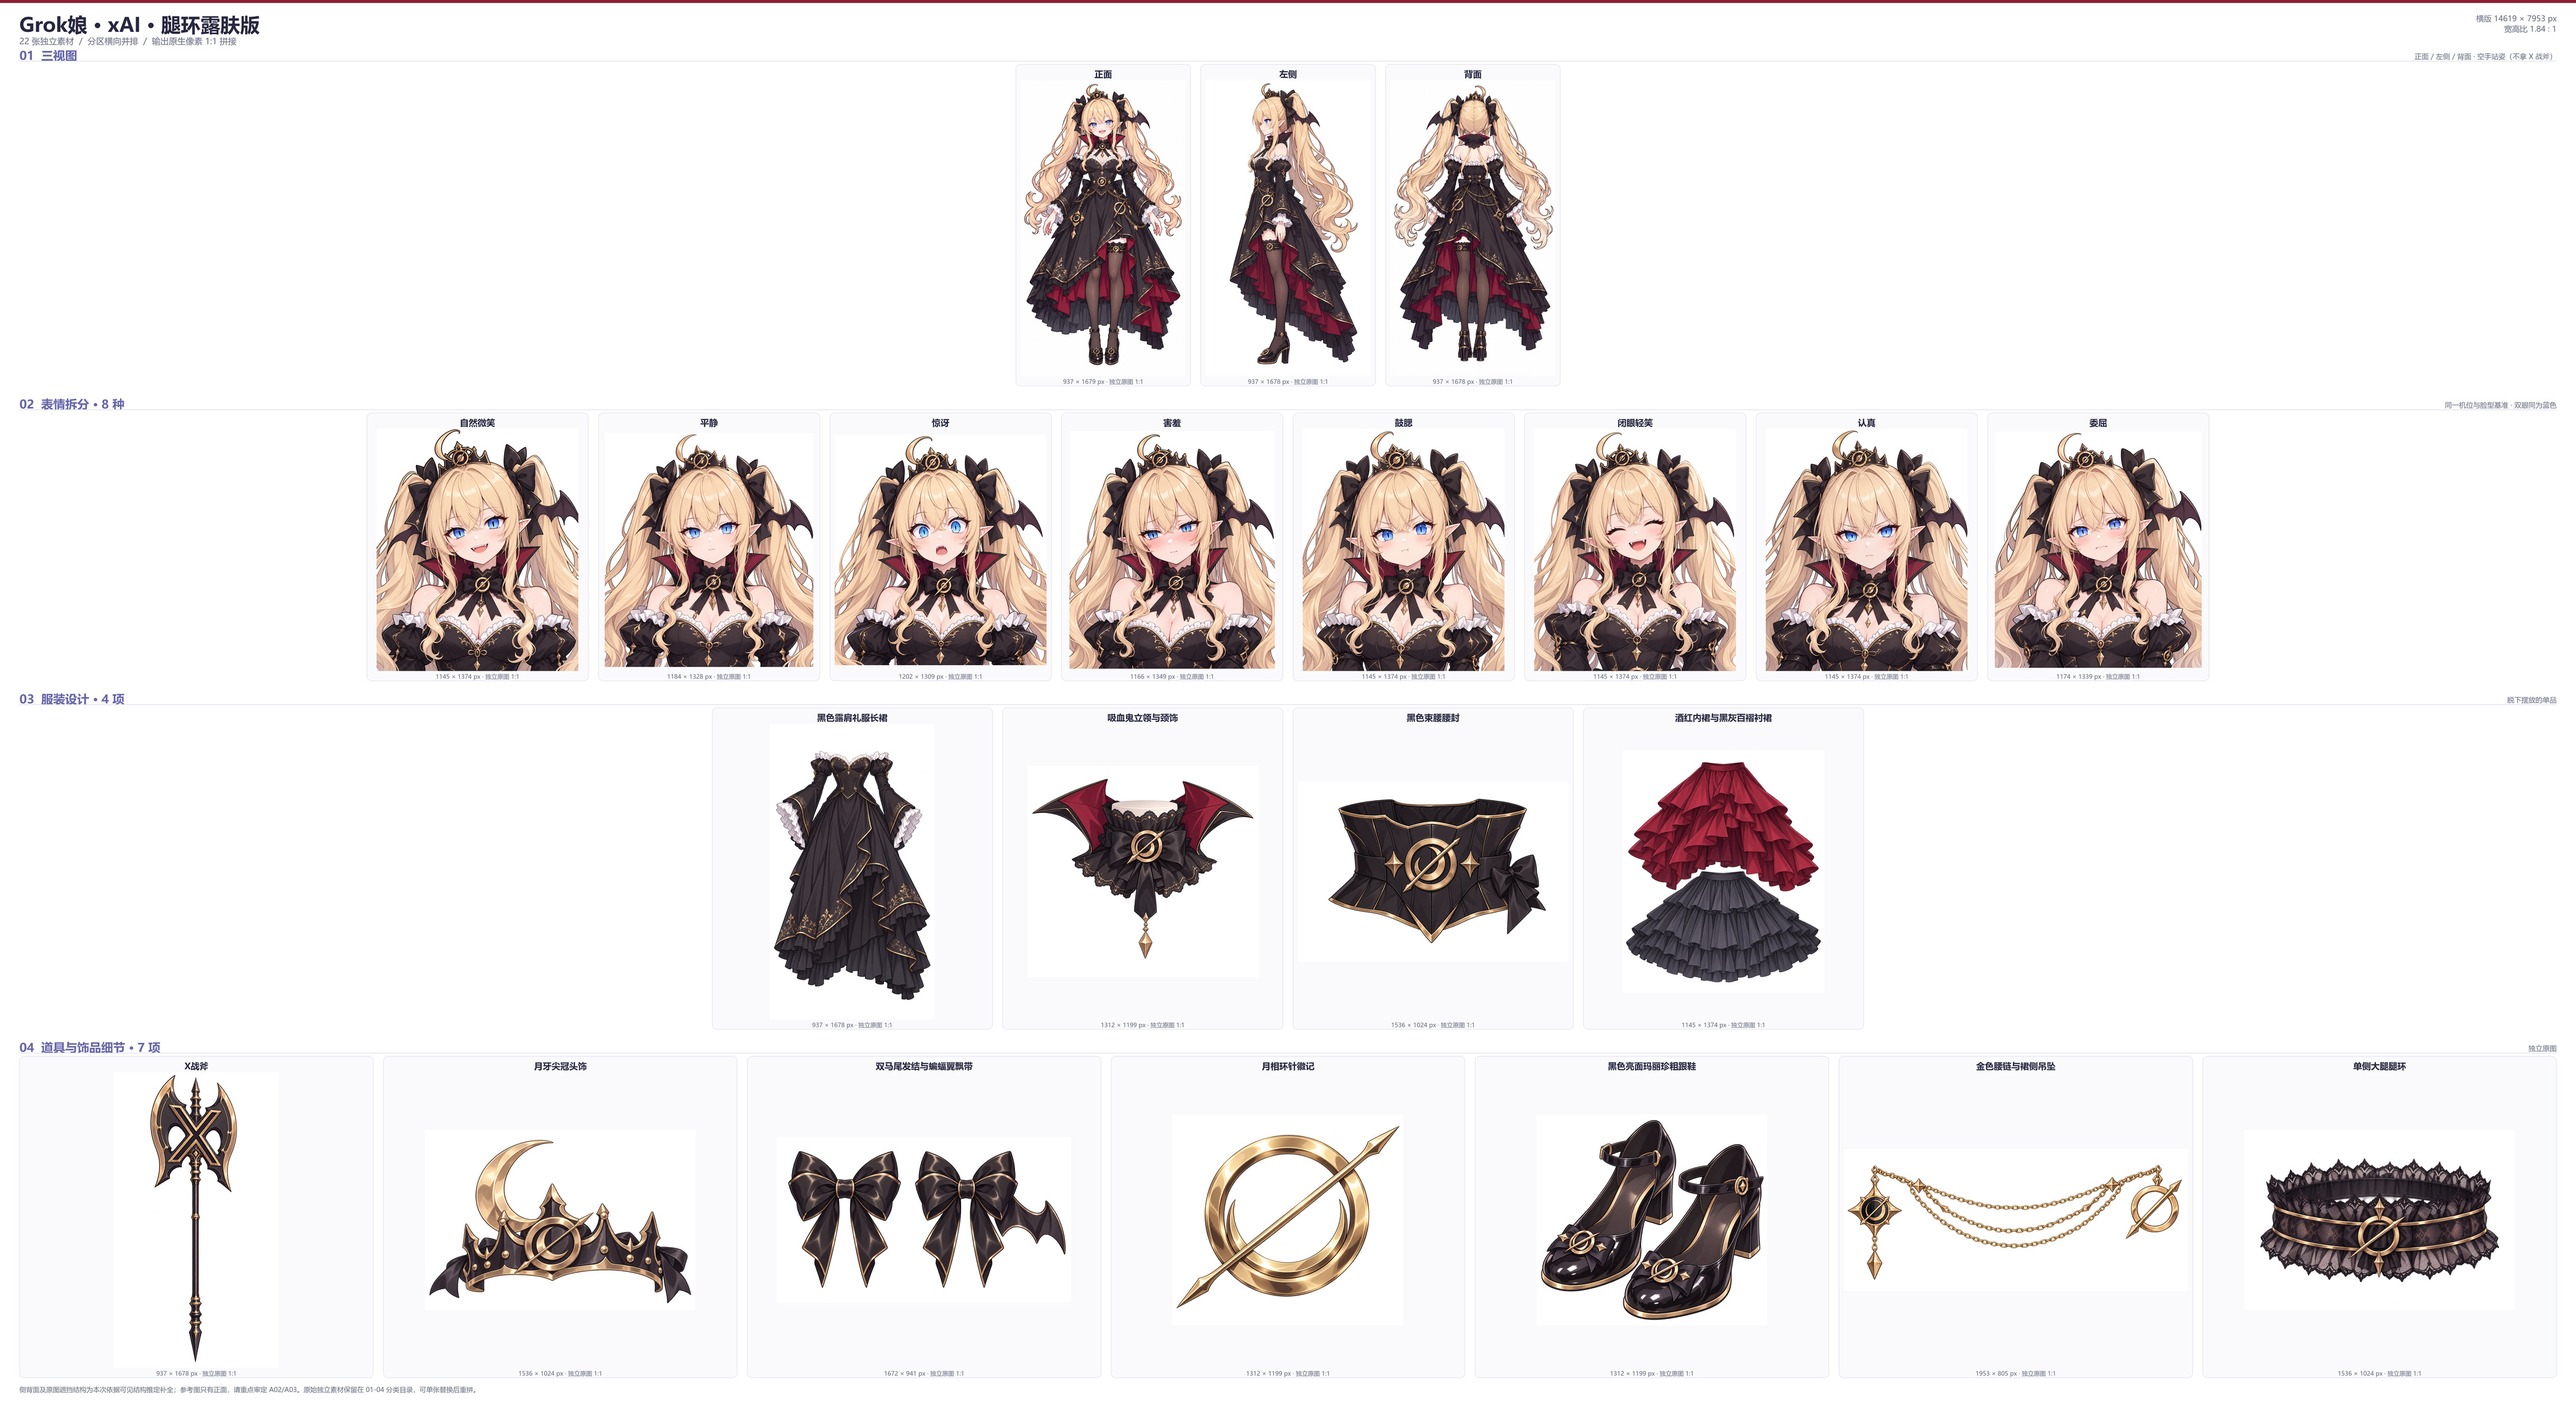
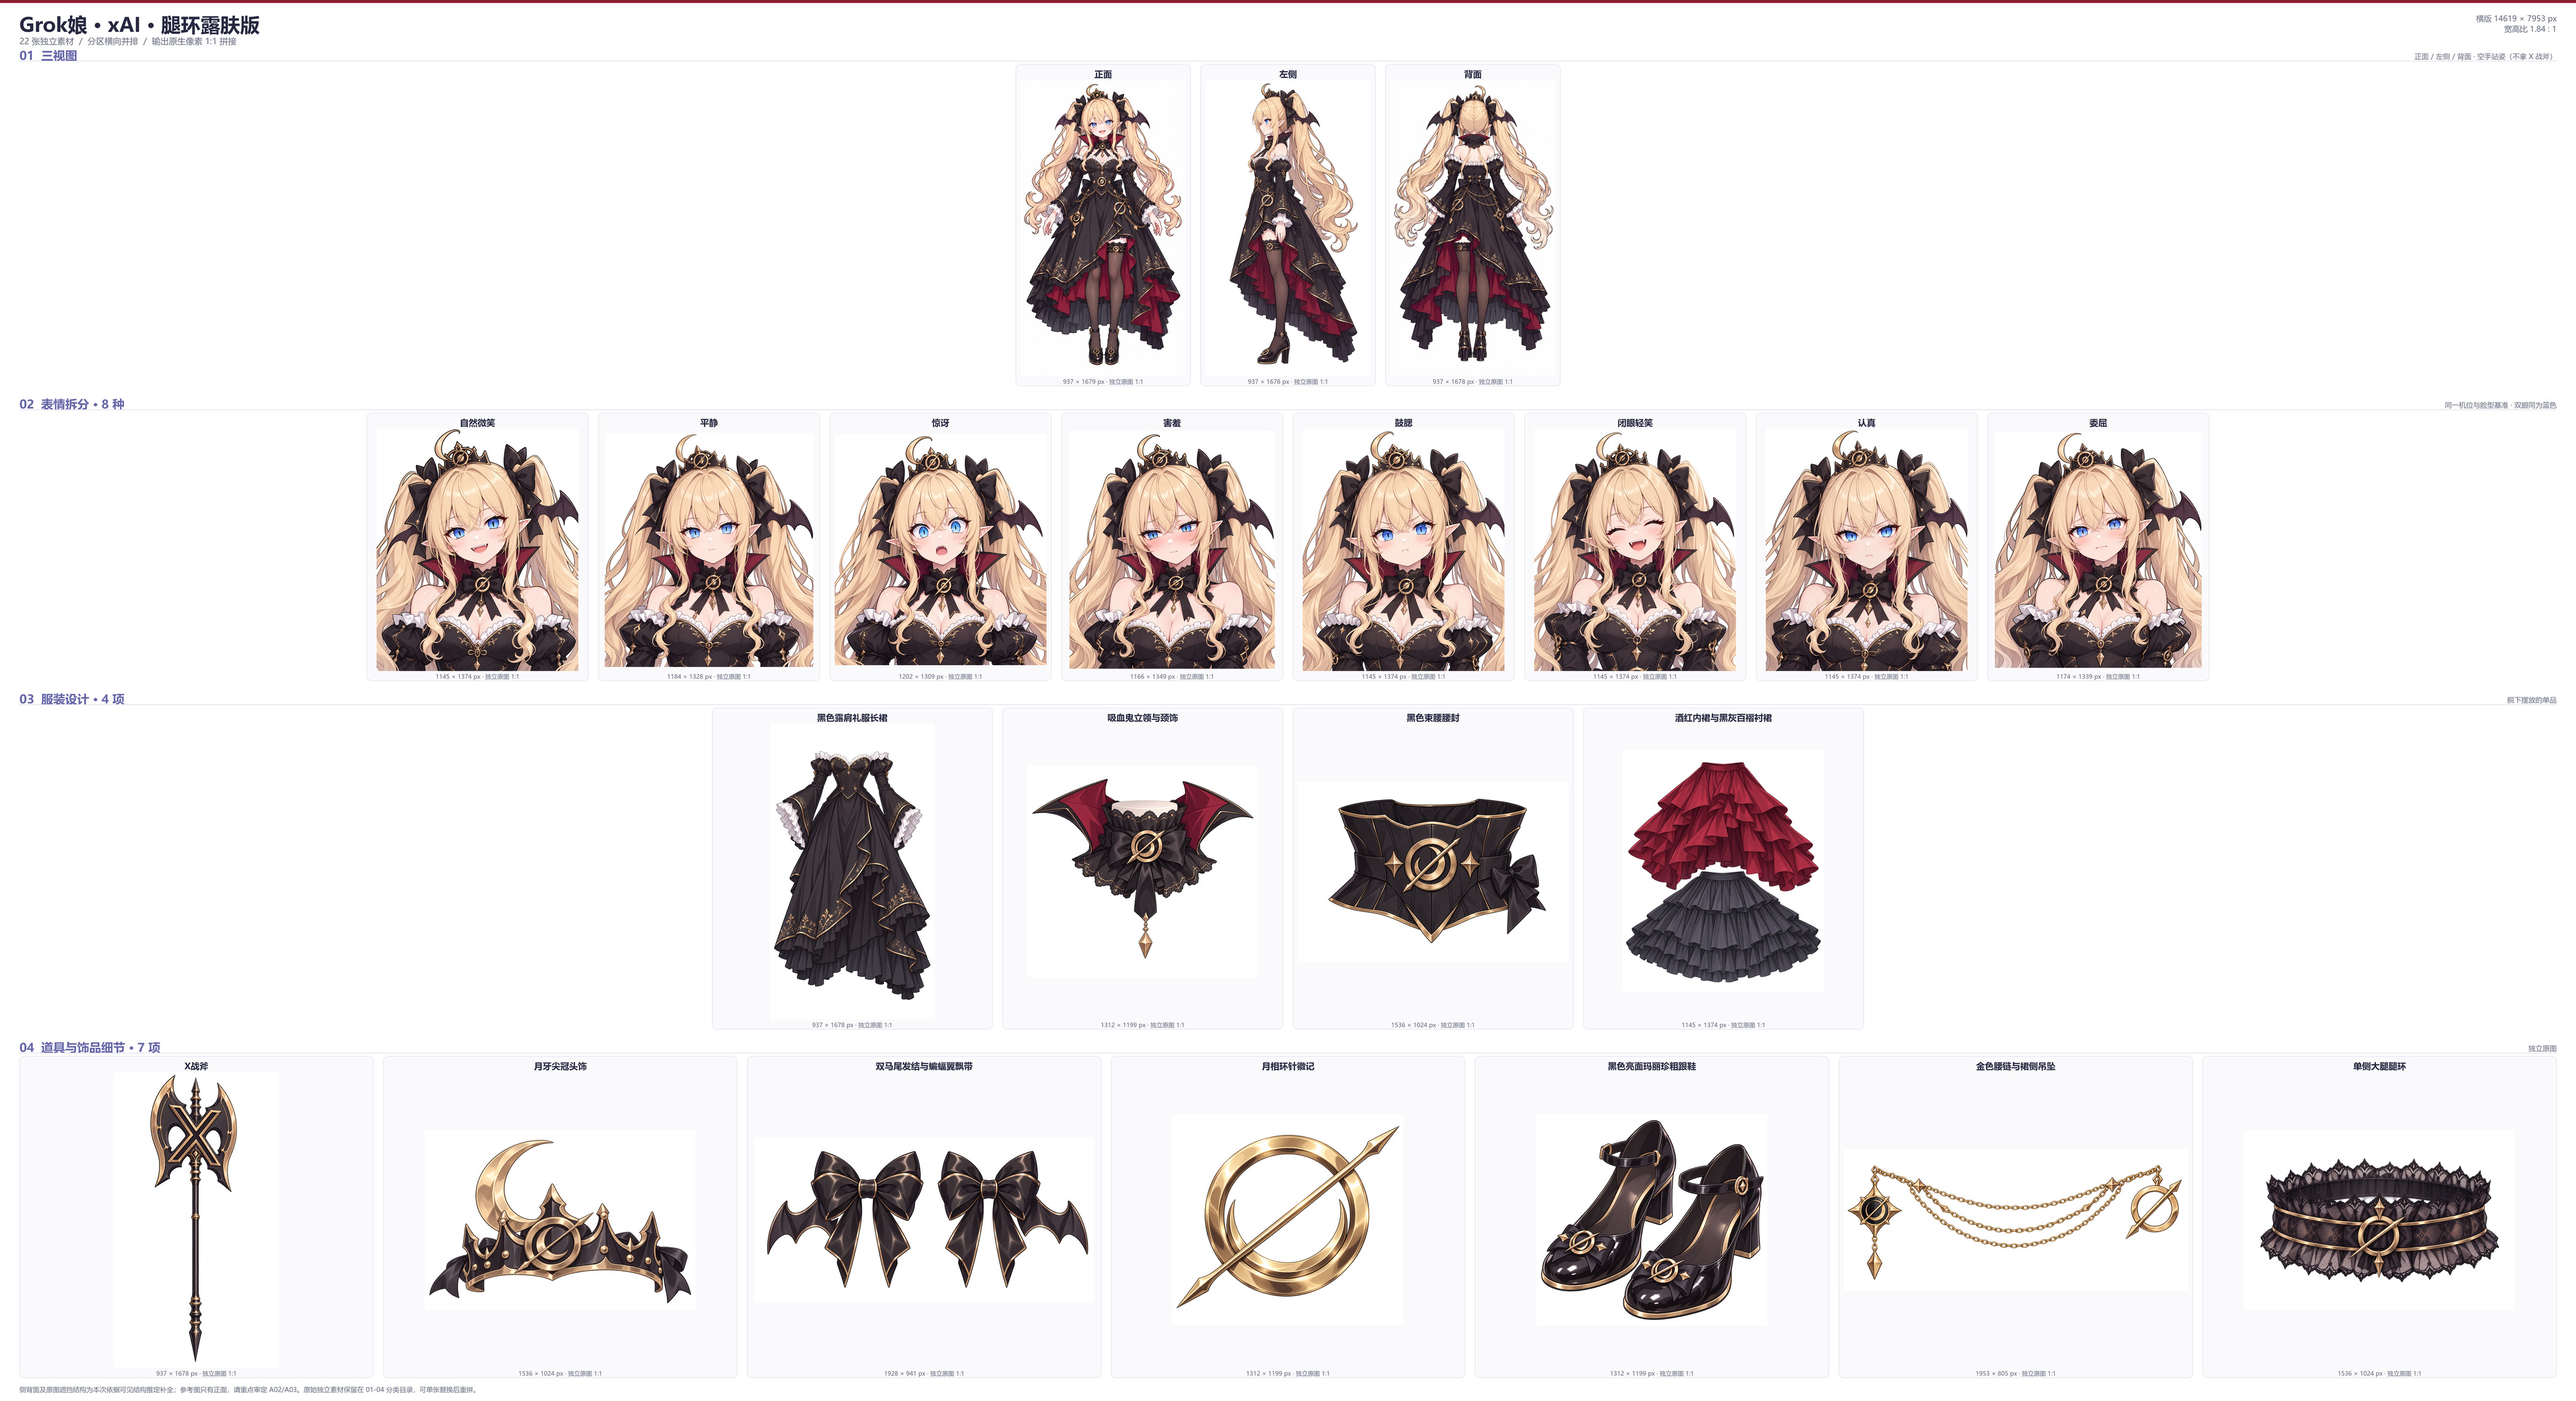
同步 PR #9 露肤版的双翼发饰及预览

Changed region(s): [[0.2807, 0.8079, 0.4367, 0.9322]]

diff --git a/设定图/09_Grok娘_xAI/腿环露肤版/README.md b/设定图/09_Grok娘_xAI/腿环露肤版/README.md
@@ -1,6 +1,6 @@
 # Grok 娘 · 腿环露肤版
 
-正面和背面采用 @juanhanyu 在 [PR #9](https://github.com/lmy414/ai-chan-sheets/pull/9) 提交的改图，腿环上方露肤，与 PR 提交时所用的左侧图一致。
+腿环上方的露肤设计来自 @juanhanyu 的 [PR #9](https://github.com/lmy414/ai-chan-sheets/pull/9)。正面和背面已同步双侧蝙蝠翼形发饰。
 
 [全板预览](完整设定图_浏览预览.jpg) · [三视图 JPG](便于查看/横版完整设定图_01_三视图_查看用.jpg) · [三视图原像素 PNG](原图切片/横版完整设定图_01_三视图_原图.png)
 
@@ -8,9 +8,9 @@
 
 ## 重建
 
-本目录的两张独立素材按像素提取自 PR 的无损三视图切片。提取坐标和文件哈希见[生成记录](生成记录/)。
+三视图的袜装沿用 PR #9。正面和背面只合入了现版的发饰修正像素。PR 原图索引和修正记录见[生成记录](生成记录/)。
 
-复制一份含 22 张独立素材的 Grok 娘原制作工程，使用 PR #9 合并时对应的素材。可在本目录的拼接索引核对哈希。在副本中替换 `制作清单.json`，再把本目录的 `01_三视图/`、`生成记录/` 和 `提示词/` 中的新增文件放入副本的对应目录。工程使用 `00_生成记录/` 和 `00_提示词/` 时，沿用这两个目录名。
+复制一份含 22 张独立素材的 Grok 娘原制作工程。在副本中使用本目录的 `制作清单.json`，并合入本目录的 `01_三视图/`、`生成记录/` 和 `提示词/`。再从现版复制 `D03_道具_双马尾发结与蝙蝠翼飘带_原设定修正` 的素材、生成记录和提示词。工程使用 `00_生成记录/` 和 `00_提示词/` 时，沿用这两个目录名。
 
 从仓库根目录依次运行拼板、校验和导出脚本，把下列“工程副本”换成副本路径。
 

diff --git a/设定图/09_Grok娘_xAI/README.md b/设定图/09_Grok娘_xAI/README.md
@@ -3,6 +3,6 @@
 - [仓库现版](完整设定图_浏览预览.jpg) · [查看用分区](便于查看/) · [原像素切片](原图切片/)
 - [腿环露肤版](腿环露肤版/) · [全板预览](腿环露肤版/完整设定图_浏览预览.jpg)
 
-腿环露肤版采用 @juanhanyu 在 [PR #9](https://github.com/lmy414/ai-chan-sheets/pull/9) 提交的正面和背面改图。现版于 2026-11-26 补齐了正面、背面和道具拆分中的双侧蝙蝠翼形发饰，也修正了左侧三视图的透肉黑袜。对照原作者立绘及 4K 壁纸确认这两处设定。
+腿环露肤版采用 @juanhanyu 在 [PR #9](https://github.com/lmy414/ai-chan-sheets/pull/9) 提交的正面和背面改图。2026-11-26 对照原作者立绘及 4K 壁纸，补齐两版的双侧蝙蝠翼形发饰。现版的左侧图同时接回透肉黑袜。腿环露肤版沿用 PR #9 的袜装设计。
 
 [原作者立绘](../../参考原图/09_Grok娘_xAI/原图_立绘_持X战斧.jpg) · [版权与授权](../../版权与授权.md)
